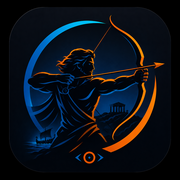
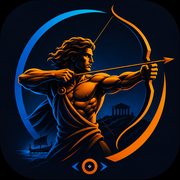
Actualizar el icono de la app a la version de colores vivos
Regenera favicon, apple-touch-icon y los iconos del manifest desde la
imagen nueva del arquero. Recorta el margen negro exterior para que el
arte llene el icono y agrega ?v=2 a las URLs para que Safari no siga
sirviendo los iconos anteriores desde cache.

diff --git a/index.html b/index.html
@@ -9,9 +9,9 @@
 <meta http-equiv="Pragma" content="no-cache">
 <meta http-equiv="Expires" content="0">
 <link rel="manifest" href="manifest.json">
-<link rel="icon" type="image/png" sizes="32x32" href="assets/favicon-32.png">
-<link rel="icon" type="image/png" sizes="16x16" href="assets/favicon-16.png">
-<link rel="apple-touch-icon" href="assets/apple-touch-icon.png">
+<link rel="icon" type="image/png" sizes="32x32" href="assets/favicon-32.png?v=2">
+<link rel="icon" type="image/png" sizes="16x16" href="assets/favicon-16.png?v=2">
+<link rel="apple-touch-icon" href="assets/apple-touch-icon.png?v=2">
 <link href="https://fonts.googleapis.com/css2?family=Barlow+Condensed:wght@400;600;700;900&family=DM+Sans:wght@300;400;500;600&display=swap" rel="stylesheet">
 <style>
 :root{
@@ -359,7 +359,7 @@ body.edit-on .add-block{display:flex}
 <div class="header">
   <div class="header-top">
     <div class="app-id">
-      <img class="app-logo" src="assets/logo-192.png" alt="Rutina Tomy">
+      <img class="app-logo" src="assets/logo-192.png?v=2" alt="Rutina Tomy">
       <div class="app-title">
         <div class="app-title-main">RUTINA TOMY</div>
         <div class="app-title-sub">Movilidad · Fuerza</div>
